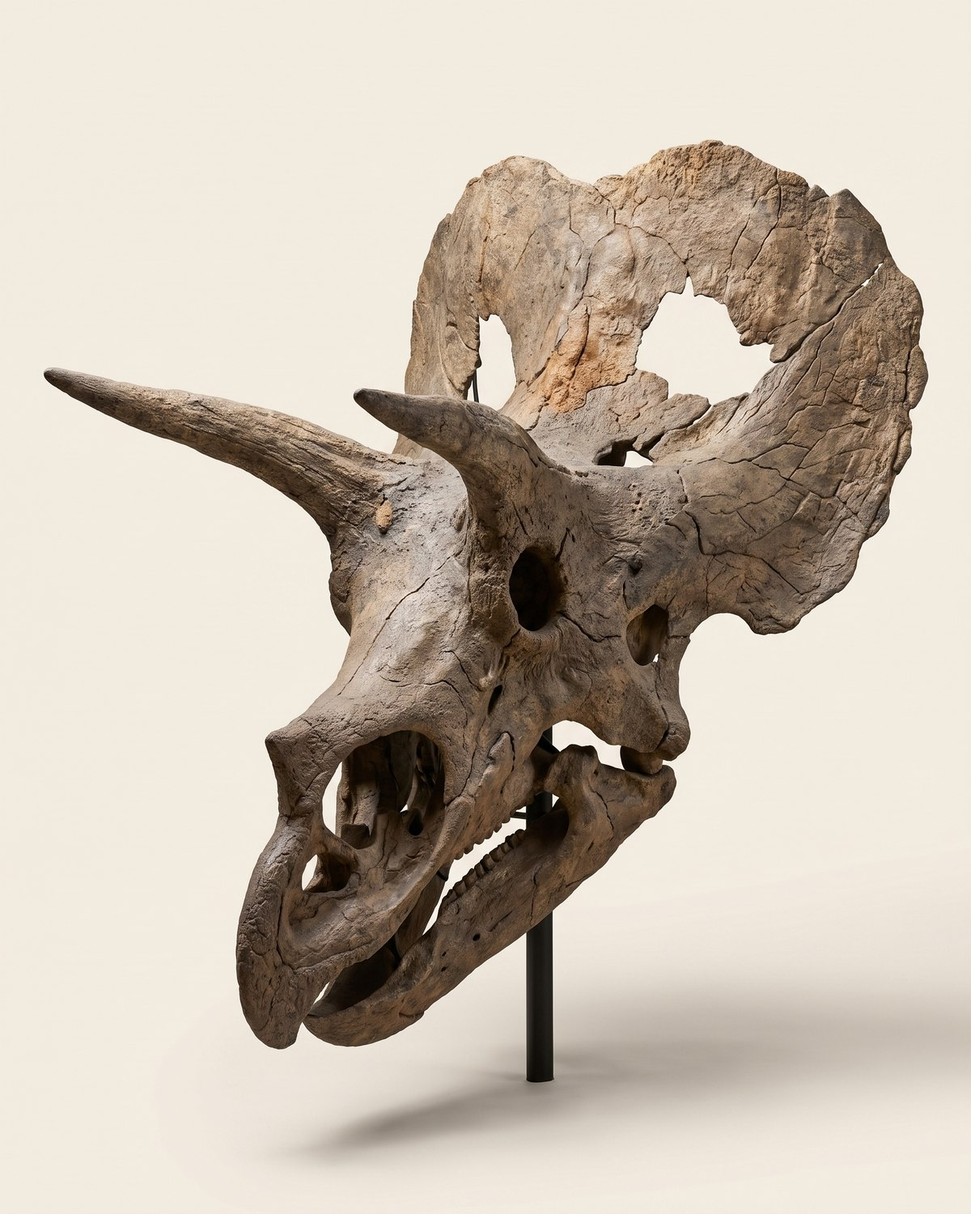
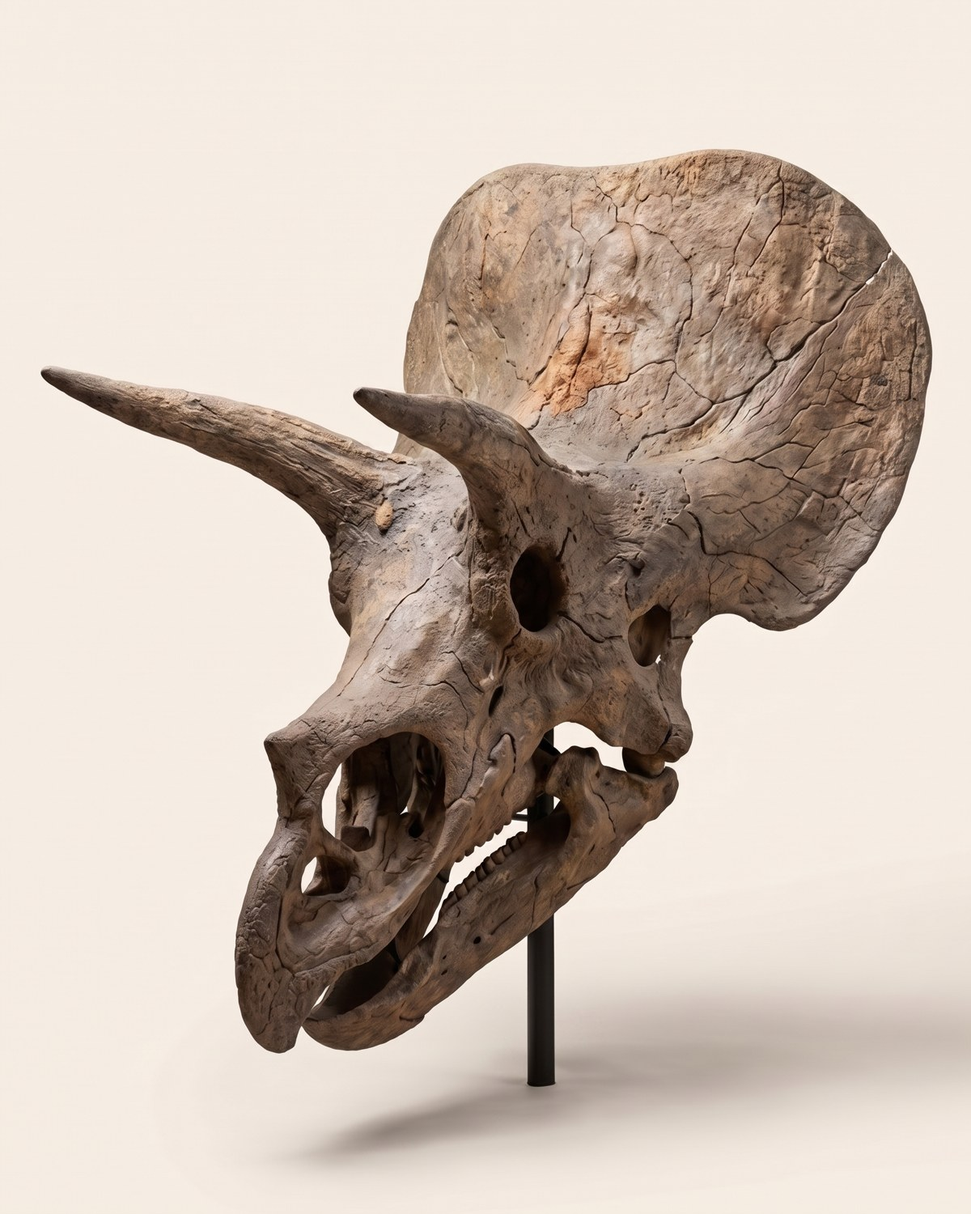
Трицератопс: щит без дыр; тексты — вычищены ИИ-обороты (14 правок)

diff --git a/16_product_promos/promo-data.js b/16_product_promos/promo-data.js
@@ -146,12 +146,12 @@ window.RELICTUM_PROMO = {
       },
       paragraphs: [
         "Представьте последние миллионы лет мезозоя — речные поймы Северной Америки, папоротниковые заросли, хвойные по берегам. Здесь жил трицератопс: четырёхтонный растительноядный динозавр, чью голову природа собрала как крепость.",
-        "Череп трицератопса — самая крупная голова, какую когда-либо носило сухопутное животное: до двух с половиной метров у взрослых особей. Костный воротник защищал шею и служил опорой мощным челюстным мышцам, а два надглазничных рога длиной до метра были настоящим оружием — на костях находят следы столкновений и с сородичами, и с тираннозавром.",
+        "Череп трицератопса — один из самых больших среди всех сухопутных животных: у взрослых особей он достигал двух с половиной метров. Костный воротник защищал шею и служил опорой челюстным мышцам, а два надглазничных рога длиной до метра — оружие: на костях находят следы столкновений и с сородичами, и с тираннозавром.",
         "На этом экземпляре сохранились и полный воротник со своими естественными проёмами, и оба надглазничных рога, и роговой клюв — сочетание, которое встречается заметно реже, чем принято думать: воротник тонок в середине и обычно ломается первым.",
         "Объект ожидается в коллекции и поставляется под заказ: условия, точные размеры и паспорт сохранности сообщаются при обращении. Фотография экземпляра сделана до подготовки к экспонированию — студийная съёмка и полный паспорт будут выполнены домом по прибытии."
       ]
     },
-    hook: "Самая крупная голова, какую носило сухопутное животное.",
+    hook: "Череп до двух с половиной метров — один из самых больших в истории суши.",
     interior: { img: "int_ph_triceratops.jpg", text: "Череп такого масштаба работает как архитектура: ему нужна высокая стена, глубина и один направленный луч — тогда воротник читается силуэтом через всю комнату." },
     era: { title: "Последнее утро мезозоя", line: "Поздний мел, 68–66 млн лет назад", href: "../15_concepts/era-cretaceous.html" }
   },
@@ -225,7 +225,7 @@ window.RELICTUM_PROMO = {
       img: "life_cavebear.jpg",
       diagram: "anat_cavebear.jpg",
       title: "Подъём в полный рост",
-      text: "Пещерный медведь встаёт на задние лапы так же, как стоит скелет. Вокруг — пещера ледниковой Европы, его настоящий дом и место зимовок."
+      text: "Пещерный медведь встаёт на задние лапы так же, как стоит скелет. Вокруг — пещера ледниковой Европы, его дом и место зимовок."
     },
     spin: "spin_cavebear.mp4",
     hook: "Почти три метра от носа до хвоста — полный скелет пещерного медведя.",
@@ -376,7 +376,7 @@ window.RELICTUM_PROMO = {
     hook: "Клинковидные клыки одного из крупнейших саблезубых хищников неогена.",
     heroKicker: "Саблезубые кошки, Ганьсу, Китай",
     story: [
-      "Machairodus — один из крупнейших саблезубых хищников неогена, предок образа, который человечество назовёт «саблезубым тигром». Его верхние клыки, длинные и уплощённые как кинжалы, наносили рану, от которой добыча уже не уходила.",
+      "Machairodus — один из крупнейших саблезубых хищников неогена; именно такие кошки стали прообразом «саблезубого тигра». Его верхние клыки, длинные и уплощённые как кинжалы, наносили рану, от которой добыча уже не уходила.",
       "Череп найден в провинции Ганьсу, Китай, и датируется возрастом от пяти до почти двенадцати миллионов лет. Он экспонируется на музейной стойке — тридцать девять сантиметров сосредоточенной хищной архитектуры."
     ],
     era: { title: "Неогеновая саванна", line: "Неоген, 23 – 2,6 млн лет назад", href: "../15_concepts/era-neogene.html" },
@@ -720,7 +720,7 @@ window.RELICTUM_PROMO = {
         "Представьте море, существовавшее около 245 миллионов лет назад. Материки выглядели совсем иначе, привычных нам морских млекопитающих ещё не существовало, а океаны осваивали совершенно другие животные.",
         "Одним из них был Mixosaurus — «смешанный ящер», ранний ихтиозавр триаса. В его сложении ещё читаются черты наземных предков рядом с зачатками того скоростного пловца, каким ихтиозавры станут позже, приобретя облик, схожий с дельфиньим.",
         "Скелет длиной 85 сантиметров сохранился в плите тонкозернистого известняка 58 × 30 сантиметров: череп, позвоночник и элементы грудной клетки лежат в анатомической связи. Подача горизонтальная — так, как животное легло в осадок.",
-        "Перед нами не просто окаменелость, а почти целая страница истории Земли, сохранившаяся в камне. Экземпляр такого уровня одновременно представляет научный интерес и обладает впечатляющей выставочной ценностью."
+        "Экземпляр редкой полноты: такой уровень сохранности интересен и науке, и коллекции."
       ]
     },
     life: {
@@ -751,7 +751,7 @@ window.RELICTUM_PROMO = {
         "Ценность": "Демонстрационный объект, показывающий архитектуру головы целиком"
       },
       paragraphs: [
-        "Поздний девон, около 360 миллионов лет назад. В морях этого времени появляется один из первых настоящих суперхищников среди позвоночных — панцирная рыба Dunkleosteus terrelli.",
+        "Поздний девон, около 360 миллионов лет назад. В морях этого времени появляется один из первых суперхищников среди позвоночных — панцирная рыба Dunkleosteus terrelli.",
         "Вместо зубов у неё острые режущие костные кромки, а голову и переднюю часть тела закрывают массивные костные пластины. Она жила почти за сто миллионов лет до первых динозавров.",
         "Представленный объект — реконструкция черепа и головного щита, выполненная по научным данным, а не подлинная ископаемая кость. Она передаёт архитектуру головы в полном объёме.",
         "Реконструкция показывает то, что в подлинных находках обычно разрознено и деформировано. При ясном понимании её природы это точный демонстрационный объект и сильная выставочная доминанта."
@@ -1218,7 +1218,7 @@ window.RELICTUM_PROMO = {
         "Нога хранится в герметичной стеклянной витрине на деревянном основании и передаётся в ней же. Происхождение и размеры уточняются при запросе."
       ]
     },
-    hook: "Мягкие ткани, кожа и шерсть — то, что мерзлота отдаёт почти никогда.",
+    hook: "Мягкие ткани, кожа и шерсть — то, что мерзлота почти никогда не отдаёт.",
     interior: { img: "int_ph_mammoth_leg.jpg", text: "Витрина с ногой мамонта работает как кабинетная кунсткамера: один предмет, один луч света — и разговор в комнате уже не о мебели." },
     era: { title: "Ледниковая Евразия", line: "Плейстоцен, 2,6 млн – 11 тыс лет назад", href: "../15_concepts/era-pleistocene.html" },
     gallery: ["int_ph_mammoth_leg.jpg", "life_mammoth_leg.jpg"]
@@ -1327,7 +1327,7 @@ window.RELICTUM_PROMO = {
         "Золотой цвет и яркий блеск пирита веками привлекали человека — коллекционные образцы этого минерала занимают особое место в любой коллекции."
       ]
     },
-    hook: "Десять крупных кубов и сотня кристаллов поменьше — геометрия, которую природа собрала сама.",
+    hook: "Десять крупных кубов и сотня кристаллов поменьше — правильная геометрия без единой огранки.",
     gallery: ["situ_pyrite.jpg", "g_pyrite_1.jpg"]
   },
 
@@ -1381,7 +1381,7 @@ window.RELICTUM_PROMO = {
         "Размер этого образца действительно внушителен: почти полметра породы весом под двадцать семь килограммов."
       ]
     },
-    hook: "Фиолетовая гора, присыпанная золотом пирита.",
+    hook: "Аметистовая друза с россыпью золотистого пирита по граням.",
     gallery: ["situ_fluorite_pyrite.jpg", "g_fluorite_pyrite_1.jpg"]
   },
 
@@ -1403,7 +1403,7 @@ window.RELICTUM_PROMO = {
       },
       paragraphs: [
         "Крупная плита с более чем пятьюдесятью отчётливыми отпечатками Nemiana simplex — древнейших многоклеточных организмов эпохи, предшествовавшей кембрийскому взрыву. Возраст окаменелостей — более полумиллиарда лет.",
-        "Организмы были мягкотелыми, поэтому в окаменелом виде сохранялись исключительно редко: для такой фоссилизации нужны уникальные условия.",
+        "Организмы были мягкотелыми, поэтому в окаменелом виде сохранялись исключительно редко: для такой фоссилизации нужны исключительные условия.",
         "Образцы с этого местонахождения сегодня фактически недоступны для российского рынка — существующие экземпляры не только научно ценны, но и крайне редки в продаже."
       ]
     },
@@ -1434,7 +1434,7 @@ window.RELICTUM_PROMO = {
         "Образец добыт в регионе Южной Америки, большая часть которого сложена архейскими и протерозойскими кристаллическими породами — древнейшими на Земле."
       ]
     },
-    hook: "Метровая жеода с сотнями кристаллов — кристаллический мир, в котором легко зависнуть надолго.",
+    hook: "Метровая жеода: сотни кристаллов аметиста в каменной чаше.",
     gallery: ["situ_amethyst_geode123.jpg", "g_amethyst_geode123_1.jpg"]
   },
 
@@ -1456,7 +1456,7 @@ window.RELICTUM_PROMO = {
         "Сохранность": "Высокий уровень; монтаж на металлическом каркасе"
       },
       "paragraphs": [
-        "Лапа пещерного медведя, жившего в Башкирии около 10–12 тысяч лет назад. Этот вид значительно превосходил размером современных представителей и был по-настоящему опасным хищником своего времени.",
+        "Лапа пещерного медведя, жившего в Башкирии около 10–12 тысяч лет назад. Этот вид значительно превосходил размером современных медведей.",
         "Сохранность костей высокого уровня; все кости соединены на металлическом каркасе — лапа встаёт на полку как готовая экспозиция."
       ]
     },
@@ -1542,11 +1542,11 @@ window.RELICTUM_PROMO = {
         "Ценность": "Поставляется под заказ; основание с латунной табличкой"
       },
       paragraphs: [
-        "Особенно впечатляющая своим размером друза кристаллов антимонита: самый длинный кристалл — более 13 сантиметров, для этого минерала размер действительно выдающийся.",
+        "Друза антимонита с кристаллами редкого размера: самый длинный — более 13 сантиметров.",
         "Основание друзы сложено множеством мелких кристаллов флюорита."
       ]
     },
-    hook: "Друза с кристаллом больше 13 сантиметров — впечатляющий размер для антимонита.",
+    hook: "Друза с кристаллом больше 13 сантиметров — редкий размер для антимонита.",
     gallery: ["situ_stibnite.jpg", "g_stibnite_1.jpg"]
   },
 
@@ -2016,7 +2016,7 @@ window.RELICTUM_PROMO = {
       ]
     },
     gallery: ["int_ph_crinoid_colony.jpg", "anat_crinoid_colony.jpg", "life_crinoid_colony.jpg", "g_crinoid_colony_1.jpg"],
-    hook: "Колония, расходящаяся из одного узла, — сцена дрейфа, застывшая целиком.",
+    hook: "Колония, расходящаяся из одного узла, сохранилась целиком.",
     era: { title: "Триасовое море", line: "≈ 235 млн лет назад", href: "../15_concepts/era-triassic.html" }
   },
 
@@ -2072,7 +2072,7 @@ window.RELICTUM_PROMO = {
       ]
     },
     gallery: ["int_ph_crinoid_cluster.jpg", "anat_crinoid_cluster.jpg", "life_crinoid_cluster.jpg", "g_crinoid_cluster_1.jpg"],
-    hook: "Плотное переплетение крон и стеблей — фактура, которую хочется разглядывать.",
+    hook: "Плотное переплетение крон и стеблей во всю плиту.",
     era: { title: "Триасовое море", line: "≈ 235 млн лет назад", href: "../15_concepts/era-triassic.html" }
   },
 
@@ -3308,7 +3308,7 @@ window.RELICTUM_PROMO = {
         "Сохранность": "Высокий уровень; монтаж на металлическом каркасе"
       },
       "paragraphs": [
-        "Лапа пещерного медведя, жившего в Башкирии около 10–12 тысяч лет назад. Этот вид значительно превосходил размером современных представителей и был по-настоящему опасным хищником своего времени.",
+        "Лапа пещерного медведя, жившего в Башкирии около 10–12 тысяч лет назад. Этот вид значительно превосходил размером современных медведей.",
         "Сохранность костей высокого уровня; все кости соединены на металлическом каркасе — лапа встаёт на полку как готовая экспозиция."
       ]
     },
